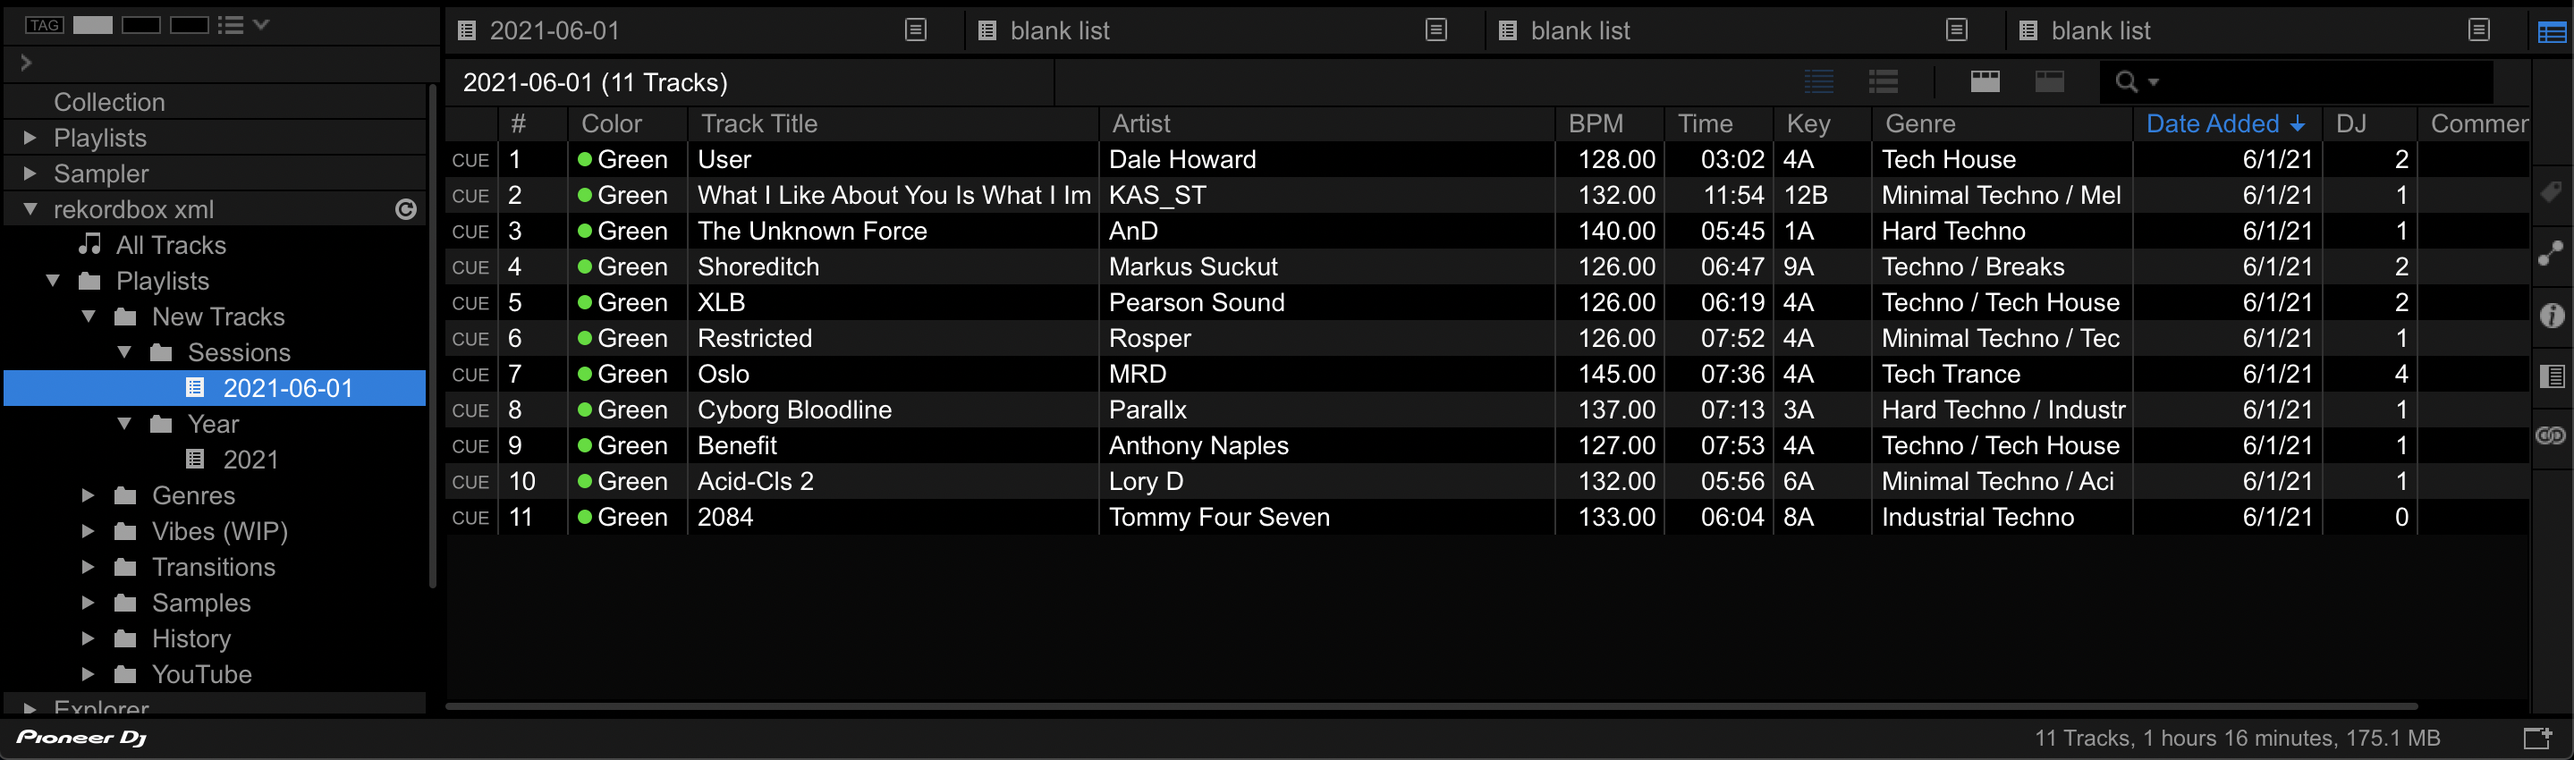
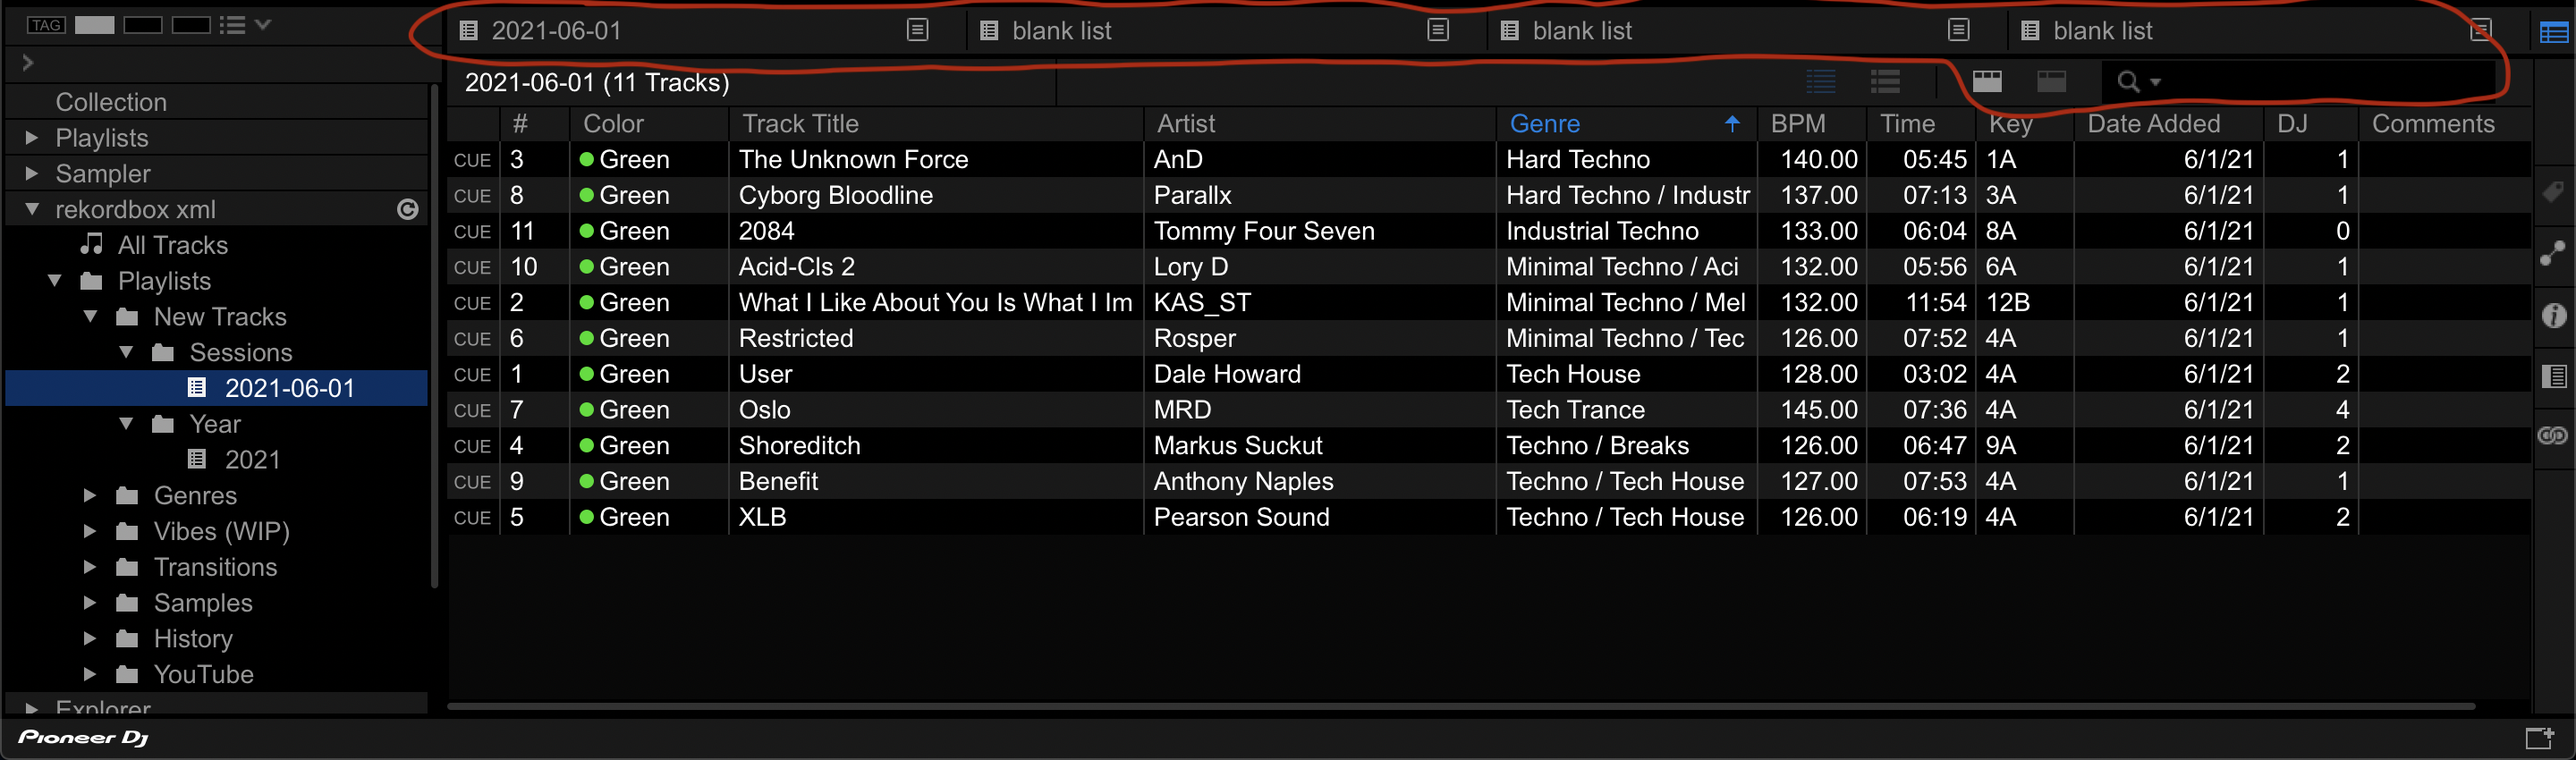
update readme and image for import

diff --git a/README.md b/README.md
@@ -90,16 +90,13 @@ Also make sure you have made the `rekordbox.xml` database visible under Preferen
 Then select the track(s) or playlist(s) and select "Import To Collection" (this will overwrite beatgrid and cue information for files with the same name!):
 
 For convenience, there's a folder called `New Tracks` which can be referenced to find the most recent additions to the collection. Playlists are organized both anually and by the date of the upload session.
+
+Note the playlist palette and two filtering options for ID3 tags and rekordbox tag, respectively, circled in red; you can use these for quick playlist building:
+
+Reference the column layout in the image below; don't forget to include the `Date Added` and `Color` columns in your own layout by right-clicking the column headers area. Sort by `Date Added` and import the most recent tracks you haven't imported yourself yet.
 ![alt text](images/Pioneer_New-Tracks_Playlist_3.png "Import XML data into collection")
 
-Don't forget to include the `Date Added` and `Color` columns by right-clicking the column headers area; sort by `Date Added` and import the most recent tracks you haven't imported yourself yet.
-
-This is my column header arrangement. The ID3 and rekordbox tag filters are circled in red; try them out for quick playlist building.
-![alt text](images/Pioneer_Columns.png "Columns")
-
-When I process a track, I set the `Color` to `green (Closing)` as a default. As I mix (or if it's immediately apparent while importing) I may set `Color` to `red (Headline)` or `blue (Opening)` if a track has too much or too little energy, respectively, to sustain a groove. Additionally I may set `Color` to `yellow (WARNING)` if the track was not able to be processed or is otherwise deemds unmixable or at least a risky mix.
-
-**NOTE:** The usage of `red` and `blue` in this color scheme is largely neglected; basically you should use color as an indicator of whether or not a track has been processed.
+When I process a track, I set the `Color` to `green (Closing)` as a default. As I mix (or if it's immediately apparent while importing) I may set `Color` to `red (Headline)` or `blue (Opening)` if a track has too much or too little energy, respectively, to sustain a groove. Additionally I may set `Color` to `yellow (WARNING)` if the track was not able to be processed or is otherwise deemds unmixable or at least a risky mix. The usage of `red` and `blue` in this color scheme is largely neglected; basically you should use color as an indicator of whether or not a track has been processed.
 
 **NOTE ABOUT BACKING UP YOUR DATA:**
 
